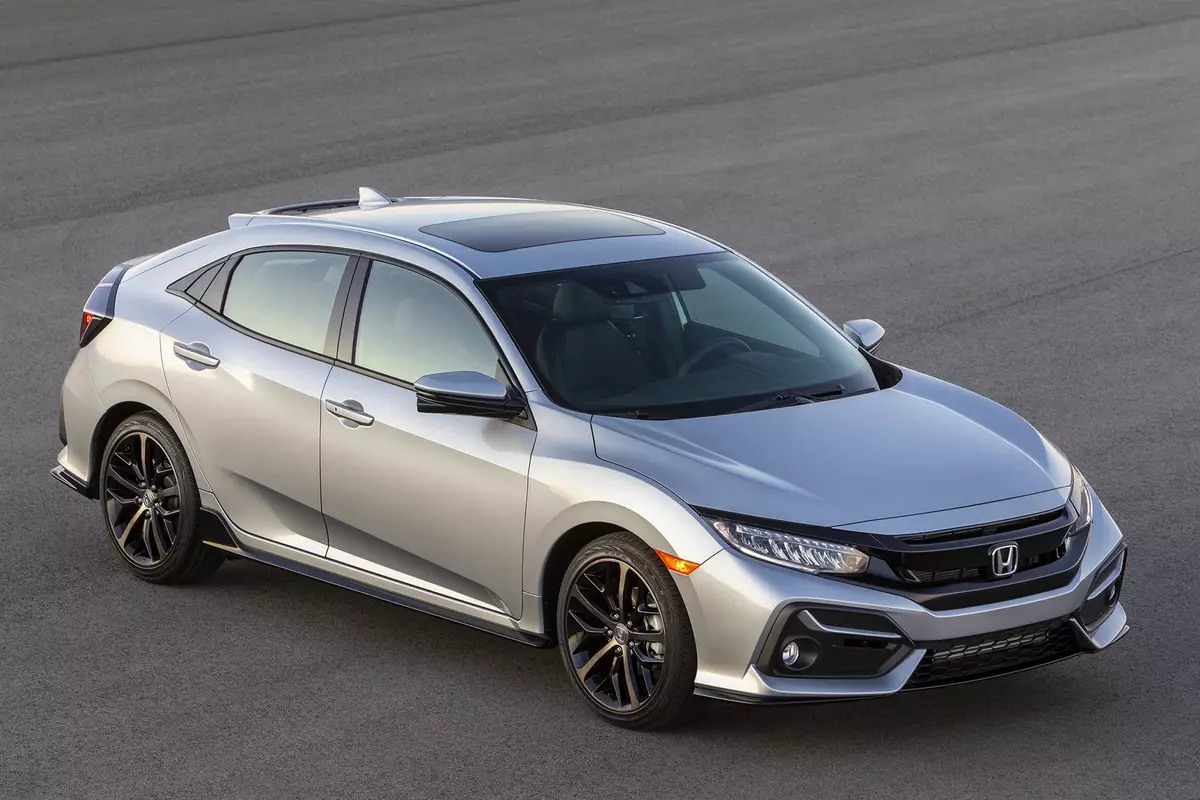
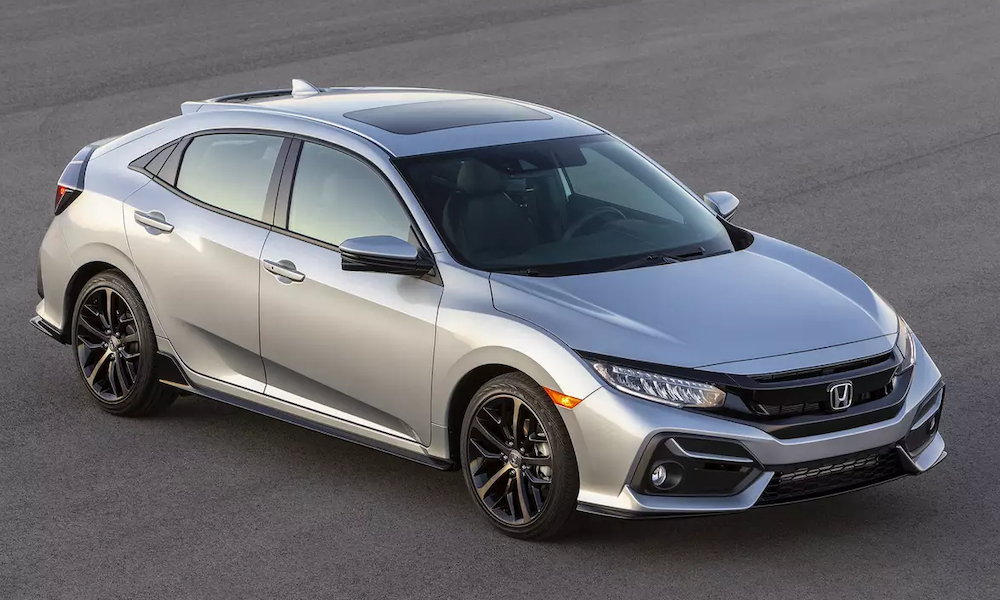
changed UI of product view and adjusted images sizing to match

diff --git a/assets/css/index.css b/assets/css/index.css
@@ -10,6 +10,7 @@
 }
 
 .header-logo {
+    margin: 20px;
     height: 15vh;
     float: left;
 }
@@ -37,7 +38,14 @@
 
 /** browseCars css**/
 
+.main-container {
+    background-color: #f0f0f0f0;
+    max-width: 1200px;
+    padding: 20px;
+}
+
 .car-grid {
+    background-color: #eeeeee;
     display: flex;
     flex-wrap: wrap;
     justify-content: center;
@@ -47,15 +55,63 @@
     display: flex;
     justify-content: space-between;
     width: 100%;
-    margin-bottom: 10px;
+    margin: 20px 50px;
 }
 
 .car {
-    background-color: #f0f0f0;
+    background-color: #ffffff;
     border-radius: 5px;
     box-shadow: 0 0 5px rgba(0, 0, 0, 0.1);
     padding: 10px;
     margin-right: 10px;
     flex-basis: 30%;
+    min-width: 300px;
+    max-width: 30%;
+    text-align: center;
+}
+
+.car-view {
+    background-color: #ffffff;
+    border-radius: 5px;
+    box-shadow: 0 0 5px rgba(0, 0, 0, 0.1);
+    padding: 10px;
+    margin-right: 10px;
+    flex-basis: 30%;
+    min-width: 300px;
     max-width: 30%;
 }
+
+.car-name, .car-price {
+    font-size: 20px;
+}
+
+.car-name {
+    font-weight: 500;
+}
+
+.car-bodytype {
+    font-weight: 300;
+}
+
+.car-price {
+    font-weight: 600;
+}
+.add-cart-btn {
+    background-color: black; /* Green */
+    border: none;
+    color: white;
+    padding: 10px 25px;
+    text-align: center;
+    text-decoration: none;
+    display: inline-block;
+    font-size: 16px;
+    margin: 4px 2px;
+    cursor: pointer;
+    -webkit-transition-duration: 0.4s; /* Safari */
+    transition-duration: 0.4s;
+    border-radius: 8px;
+}
+
+.add-cart-btn:hover {
+    box-shadow: 0 12px 16px 0 rgba(0,0,0,0.24),0 17px 50px 0 rgba(0,0,0,0.19);
+  }

diff --git a/viewProduct.php b/viewProduct.php
@@ -1,0 +1,57 @@
+<?php include 'includes/header.php'; ?>
+
+<?php
+session_start();
+
+$filename = 'assets/cars.json';
+$data = file_get_contents($filename);
+$cars = json_decode($data, true);
+
+$car_id = $_GET['car_id'];
+foreach ($cars as $car) {
+    $car_name = $car['Name'];
+    $car_model = $car['Model'];
+    $car_make = $car['Make'];
+    $car_mileage = $car['Mileage'];
+    $car_year = $car['Year'];
+    $car_availability = $car['Availability'];
+    $car_price = $car['Price_per_day'];
+    $car_fuel = $car['Fuel'];
+    $car_transmission = $car['Transmission_type'];
+    $car_seats = $car['Seats'];
+    $car_bodytype = $car['Body_type'];
+    $car_image = $car['Image'];
+    if ($car['Car_ID'] === $car_id) {
+        ?>
+            <div class="car-view" style="
+            margin: 0 auto;
+            padding: 50px;
+            width: 50%;
+            ">
+                <img src="assets/images/car_images/<?php echo $car_image;?>" alt="Image of<?php echo $car_name;?>" style="width: 300px"></img><br><br>
+                <span style="font-size: 28px;"class="car-name"><?php echo $car_name;?> (<?php echo $car_year;?>)</span><br>
+                <span class="car-price">$<?php echo $car_price;?>/day</span><br>
+                <p>
+                <b>Make:</b> <?php echo $car_make;?></br>
+                <b>Model:</b> <?php echo $car_model;?></br>
+                <b>Body Type:</b> <?php echo $car_bodytype;?><br>
+                <b>Mileage:</b> <?php echo $car_mileage;?></br>
+                <b>Year:</b> <?php echo $car_year;?></br>
+                <b>Price Per Day:</b> <?php echo $car_price;?></br>
+                <b>Fuel Type:</b> <?php echo $car_fuel;?></br>
+                <b>Tranmission Type:</b> <?php echo $car_transmission;?></br>
+                <b>Seats:</b> <?php echo $car_seats;?></br>
+                </p>
+                <form action="addToCart.php" method="get">
+                    <input type="hidden" name="car_id" value="<?php echo $car_id;?>">
+                    <p style="font-size: 20px">Rent for how many days?</br>
+                    <input type="number" style="width: 50px;" name="quantity"></br>
+                    </p>
+                    <button class="add-cart-btn" type='submit" id='btn' name="addToCart" onclick="reloadPage()"><i class="fa fa-cart-arrow-down"></i> Rent</button>
+                    </form>
+            </div>
+    <?php
+    }
+}
+?>
+<?php include 'includes/footer.php'?>

diff --git a/browseCars.php b/browseCars.php
@@ -1,0 +1,57 @@
+<div ckass="main-container">
+<?php
+ini_set('display_errors', '1');
+ini_set('display_startup_errors', '1');
+error_reporting(E_ALL);
+    $filename = 'assets/cars.json';
+    $data = file_get_contents($filename);
+    $decoded_json = json_decode($data, true);
+   
+    echo '<div class="car-grid">';
+    $i = 0;
+    foreach ($decoded_json as $car) {
+        if ($i % 3 == 0) {
+            echo '<div class="car-row">';
+        }
+        $car_id = $car['Car_ID'];
+        $car_name = $car['Name'];
+        $car_model = $car['Model'];
+        $car_make = $car['Make'];
+        $car_mileage = $car['Mileage'];
+        $car_year = $car['Year'];
+        $car_availability = $car['Availability'];
+        $car_price = $car['Price_per_day'];
+        $car_fuel = $car['Fuel'];
+        $car_transmission = $car['Transmission_type'];
+        $car_seats = $car['Seats'];
+        $car_bodytype = $car['Body_type'];
+        $car_image = $car['Image'];
+        ?>
+        
+        <div class="car">
+            <img src="assets/images/car_images/<?php echo $car_image;?>" alt="Image of<?php echo $car_name;?>" style="width: 300px"></img><br><br>
+            <span class="car-name"><?php echo $car_name;?> (<?php echo $car_year;?>)</span><br>
+            <span class="car-bodytype"><?php echo $car_bodytype;?></span><br>
+            <span class="car-price">$<?php echo $car_price;?>/day</span><br>
+            <a href="addToCart.php?car_id=<?php echo $car_id;?>">
+                <button class="add-cart-btn" type='submit" id='btn' name="addToCart" onclick="reloadPage()">
+                    <i class="fa fa-cart-arrow-down"></i> Add To Cart
+                </button>
+            </a>
+            <a href="viewProduct.php?car_id=<?php echo $car_id;?>">
+                <i class="fa fa-eye"></i> Details
+            </a>
+        </div>
+
+        <?php
+        $i++;
+        if ($i % 3 == 0) {
+            echo '</div>';
+        }
+    }
+    if ($i % 3 != 0) {
+        echo '</div>';
+    }
+    echo '</div>';
+?>    
+</div>

diff --git a/index.php b/index.php
@@ -3,26 +3,7 @@ Author: Catherine Pe Benito
 Created: 06/03/2023
 This page contains the views for different sections of the main webpage.
 -->
-<!DOCTYPE html>
-<html lang="en">
-<head>
-    <title>Hertz-UTS</title>
-    <link rel="icon" href="assets/favicon.ico" type="image/x-icon"/>
-    <link href="assets/css/index.css" type="text/css" rel="stylesheet">
-    <link rel="stylesheet" href="https://cdnjs.cloudflare.com/ajax/libs/font-awesome/4.7.0/css/font-awesome.min.css">
-    <link rel="preconnect" href="https://fonts.googleapis.com">
-    <link rel="preconnect" href="https://fonts.gstatic.com" crossorigin>
-    <link href="https://fonts.googleapis.com/css2?family=Tajawal:wght@200;300;400;500;700&display=swap" rel="stylesheet">
-    <link rel="stylesheet" href="https://maxcdn.bootstrapcdn.com/bootstrap/4.0.0/css/bootstrap.min.css">
-	<link rel="stylesheet" href="https://maxcdn.bootstrapcdn.com/font-awesome/4.7.0/css/font-awesome.min.css">
-  	<script src="https://ajax.googleapis.com/ajax/libs/jquery/3.3.1/jquery.min.js"></script>
-  	<script src="https://cdnjs.cloudflare.com/ajax/libs/popper.js/1.12.9/umd/popper.min.js"></script>
-  	<script src="https://maxcdn.bootstrapcdn.com/bootstrap/4.0.0/js/bootstrap.min.js"></script>
-    <meta name="viewport" content="width=device-width, initial-scale=1">
-</head>
-<body>
-    <?php include 'inc/header.php'?>
-    <?php include 'components/browseCars.php'?>
-    <?php include 'inc/footer.php'?>
-</body>
-</html>
+
+    <?php include 'includes/header.php'?>
+    <?php include 'browseCars.php'?>
+    <?php include 'includes/footer.php'?>

diff --git a/includes/header.php b/includes/header.php
@@ -1,0 +1,27 @@
+<?php
+session_start();
+?>
+<!DOCTYPE html>
+<html lang="en">
+<head>
+    <title>Hertz-UTS</title>
+    <link rel="icon" href="assets/favicon.ico" type="image/x-icon"/>
+    <link href="assets/css/index.css" type="text/css" rel="stylesheet">
+    <link rel="stylesheet" href="https://cdnjs.cloudflare.com/ajax/libs/font-awesome/4.7.0/css/font-awesome.min.css">
+    <link rel="preconnect" href="https://fonts.googleapis.com">
+    <link rel="preconnect" href="https://fonts.gstatic.com" crossorigin>
+    <link href="https://fonts.googleapis.com/css2?family=Tajawal:wght@200;300;400;500;700&display=swap" rel="stylesheet">
+    <link rel="stylesheet" href="https://maxcdn.bootstrapcdn.com/bootstrap/4.0.0/css/bootstrap.min.css">
+	<link rel="stylesheet" href="https://maxcdn.bootstrapcdn.com/font-awesome/4.7.0/css/font-awesome.min.css">
+  	<script src="https://ajax.googleapis.com/ajax/libs/jquery/3.3.1/jquery.min.js"></script>
+  	<script src="https://cdnjs.cloudflare.com/ajax/libs/popper.js/1.12.9/umd/popper.min.js"></script>
+  	<script src="https://maxcdn.bootstrapcdn.com/bootstrap/4.0.0/js/bootstrap.min.js"></script>
+    <meta name="viewport" content="width=device-width, initial-scale=1">
+</head>
+<div class="header">
+    <a href="./index.php"><img class="header-logo" src="assets/images/logo-full.png"></a>
+    <div class="header-title">Car Rental Center</div>
+    <button class="header-cart"><i class="fa fa-shopping-cart"></i></button>
+    <div style="clear: both;"></div>
+</div>
+<body>

diff --git a/addToCart.php b/addToCart.php
@@ -1,0 +1,34 @@
+<?php
+session_start();
+ini_set('display_errors', '1');
+ini_set('display_startup_errors', '1');
+error_reporting(E_ALL);
+
+if (isset($_GET['car_id'])) {
+    $car_id = $_GET['car_id'];
+    
+    if (!isset($_SESSION['cart'])) {
+        $_SESSION['cart'] = array();
+    }
+    
+    if(isset($_GET['quantity'])) {
+        $quantity = $_GET['quantity'];
+
+    } else {
+        $quantity = 1;
+    }
+
+    if (array_key_exists($car_id, $_SESSION['cart'])) {
+        $_SESSION['cart'][$car_id]['quantity'] += $quantity;
+    } else {
+        $_SESSION['cart'][$car_id] = array('quantity' => $quantity);
+    }
+
+    $_SESSION['cart'][$car_id] = array('quantity' => $quantity);
+
+    echo "<pre>";
+    print_r($_SESSION['cart']);
+    echo "</pre>";
+
+}
+?> 

diff --git a/viewCart.php b/viewCart.php
@@ -1,0 +1,4 @@
+<?php include 'includes/header.php'; ?>
+
+
+<?php include 'includes/footer.php'?>

diff --git a/includes/footer.php b/includes/footer.php
@@ -1,0 +1,2 @@
+    </body>
+</html>
